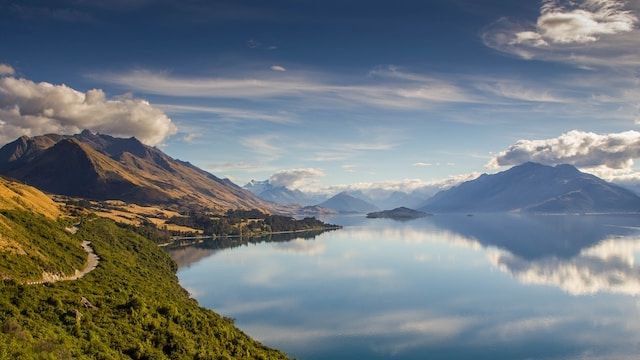
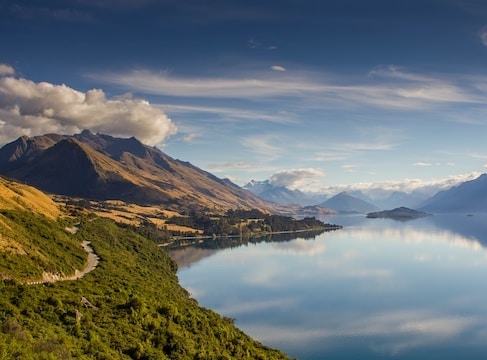
Modifying CSS

diff --git a/styles.css b/styles.css
@@ -4,34 +4,44 @@
     margin: 0;
     padding: 0;
     box-sizing: border-box;
-    
-    
+     
 }
 
 body {
-    width: 950px;
+    width: 1200px;
     margin: auto;
 
 }
 
 .background {
     background-color: #7A918D;
-    padding: 0px 20px 10px 20px
+    padding: 0 20px 5px 20px
 }
 
-/* Styling for the hero section */
+
+
+/*-------------------------------------------- 
+------Styling for the hero section -----------
+--------------------------------------------*/
+
 
 .hero {
     position: relative;
-    height: 400px; 
+    height: 400px;
     background: url("images/newzealand-hero.jpg") center/cover no-repeat;
     display: flex;
     align-items: center;
     justify-content: center;
     border-radius: 0px 0px 50px 50px;
-    border: 5px solid #F1F1F1;
     box-shadow: 0px 6px 5px 2px rgba(19, 19, 19, 0.30);
+}
 
+.hero-border {
+    position: relative;
+    mix-blend-mode: overlay;
+    border-radius: 0px 0px 40px 40px;
+    border: 10px solid #F1F1F1;
+    padding: 170px 545px
 }
 
 .hero-text {
@@ -46,9 +56,13 @@ body {
     background: rgba(153, 194, 162, 0.60);
     color: #F1F1F1;
     transform: translate(0px, 45px);
+    text-shadow: 0 0 2px rgba(0, 0, 0, 0.4);
+    position: absolute;
 }
 
-/* Styling for the grid section */
+/* --------------------------------------------
+---------Styling for the grid section ---------
+----------------------------------------------*/
 
 .grid-section {
     border-radius: 50px 50px 0px 0px;
@@ -61,17 +75,16 @@ body {
     gap: 20px;
     margin: 40px auto;
     max-width: 1200px;
-    padding: 20px;
+    padding: 40px;
 }
 
 .grid-container {
     background-color: #f0f0f0;
-    padding: 0px;
     object-fit:contain;
     border-radius: 10px;
     box-shadow: 0 2px 4px rgba(0, 0, 0, 0.1);
     background: linear-gradient(90deg, #99C2A2 -6.19%, rgba(153, 194, 162, 0.31) 102.92%);
-    border: 2px solid #F1F1F1;
+    border: 2.5px solid #F1F1F1;
 }
 
 .grid-container:nth-child(1) {
@@ -82,21 +95,52 @@ body {
     grid-row: span 2;
 }
 
+.grid-container:nth-child(4) {
+    border-radius: 10px 10px 10px 0;
+}
+
+.grid-container:nth-child(6) {
+    border-radius: 10px 10px 0 10px;
+}
+
 .grid-container img {
-    width: 52%;
-    height: auto;
-    border-radius: 10px;
-    display:block;
-    
+    width: 100%;
+    height: 100%;
+    object-fit: cover;
+    border-radius: 8px;
+    display:block;  
+}
+
+.grid-container:nth-child(1) img {
+    width: 50%;
+    height: 100%;
+    float: left;
+    border-radius: 8px 0px 0px 8px;
+    display:block;   
+}
+
+.grid-container:nth-child(4) img {
+    border-radius: 8px 8px 8px 0;
+}
+
+.grid-container:nth-child(6) img {
+    border-radius: 8px 8px 0 8px;
+}
+
+.text-1 {
+    font-size: 16px;
+    line-height: 125%;
+    letter-spacing: 0.55px;
+    padding-left: 280px;
 }
 
 p {
     color: #F1F1F1;
-    font-family: Gill Sans;
-    font-size: 15px;
+    font-family: Gill Sans, sans-serif;
+    font-size: 16px;
     font-style: normal;
-    line-height: 110%;
+    line-height: 150%;
     letter-spacing: 0.725px;
     padding: 10px;
-
+    text-shadow: 0 0 2px rgba(0, 0, 0, 0.5);
 }

diff --git a/index.html b/index.html
@@ -5,22 +5,26 @@
     <meta charset="UTF-8">
     <meta name="viewport" content="width=device-width, initial-scale=1.0">
     <link rel="stylesheet" href="styles.css">
-    <title>Your Page Title</title>
+    <title>New Zealand</title>
 
 </head>
 
 <body>
     <div class="background">
-        <header class="hero">
-            <div class="hero-text">New Zealand</div>
-        </header>
+        <div class="image-border">
+            <header class="hero">
+                <div class="hero-text">New Zealand</div>
+                <div class="hero-border"></div>
+            </header>
+        </div>
 
         <section class="grid-section">
             <div class="grid-container">
                 <img src="images/newzealand-water.jpg" alt="A body of water with mountains and clouds">
+                    <p class="text-1">New Zealand, a breathtaking island nation in the southwestern Pacific Ocean, is a land of extraordinary natural beauty and vibrant culture. With its diverse landscapes ranging from snow-capped mountains and pristine lakes to lush forests and rugged coastlines, New Zealand offers a remarkable tapestry of scenery that has earned it the nickname "The Land of the Long White Cloud."</p>
             </div>
             <div class="grid-container">
-                <img src="images/newzealand-river.jpg" alt="A river between rocks with trees with Shotover River in the background
+                <img src="images/newzealand-river.jpeg" alt="A river between rocks with trees with Shotover River in the background
                 ">
             </div>
             <div class="grid-container">
